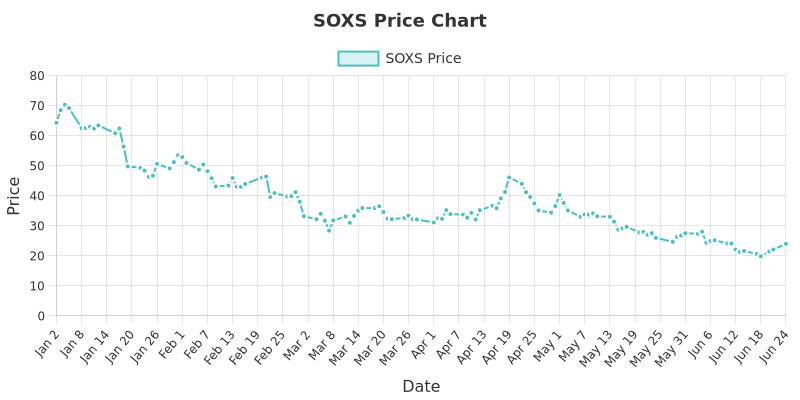
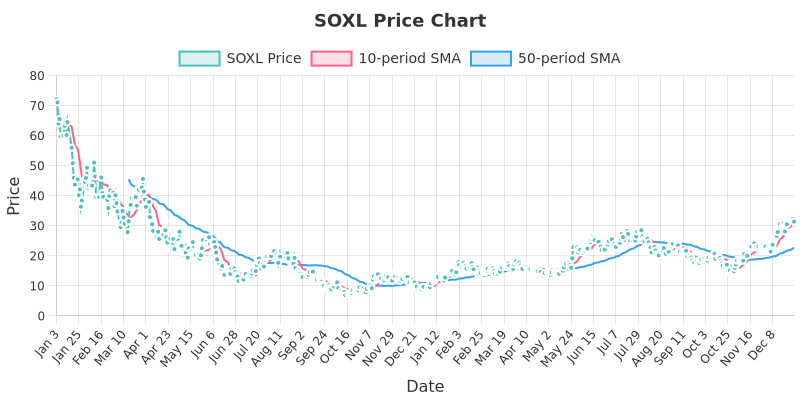
updates to tsc/frontend

diff --git a/dist/interface.js b/dist/interface.js
@@ -14,6 +14,54 @@ import "chartjs-adapter-date-fns";
 import { JSONDataAccess } from "./adapters/JSONDataAccess.js";
 import { JSONDataAdapter } from "./adapters/JSONDataAdapter.js";
 import { pubSub } from "./pubsub/PubSub.js";
+// Function to calculate Simple Moving Average (SMA)
+export function calculateSMA(data, windowSize) {
+    if (!data || data.length < windowSize)
+        return [];
+    let sum = 0;
+    const sma = new Array(windowSize - 1).fill(null); // Fill the initial array with nulls
+    // Calculate the sum for the first window
+    for (let i = 0; i < windowSize; i++) {
+        if (data[i] && data[i].close !== undefined) {
+            sum += parseFloat(data[i].close);
+        }
+        else {
+            return [];
+        }
+    }
+    sma.push(sum / windowSize);
+    // Calculate the rest using a rolling sum
+    for (let i = windowSize; i < data.length; i++) {
+        if (data[i] &&
+            data[i].close !== undefined &&
+            data[i - windowSize] &&
+            data[i - windowSize].close !== undefined) {
+            sum -= parseFloat(data[i - windowSize].close);
+            sum += parseFloat(data[i].close);
+            sma.push(sum / windowSize);
+        }
+        else {
+            return [];
+        }
+    }
+    return sma;
+}
+// Function to calculate Flexible Moving Average (FMA)
+export function calculateFMA(data, windowSize) {
+    if (!data || data.length === 0)
+        return [];
+    const alpha = 2 / (windowSize + 1);
+    let fma = [parseFloat(data[0].close)]; // Initialize with the first close value
+    for (let i = 1; i < data.length; i++) {
+        if (data[i] && data[i].close !== undefined) {
+            fma.push(alpha * parseFloat(data[i].close) + (1 - alpha) * fma[i - 1]);
+        }
+        else {
+            return [];
+        }
+    }
+    return fma;
+}
 const jsonDataAccess = new JSONDataAccess();
 const dataAccess = new JSONDataAdapter(jsonDataAccess);
 // Main function to run the program
@@ -75,6 +123,8 @@ function generateChart(symbol, startDate, endDate) {
             new Date(entry.date) <= new Date(endDate));
         const dates = marketData.map((entry) => entry.date);
         const prices = marketData.map((entry) => parseFloat(entry.close)); // Ensure prices are numbers
+        const sma10 = calculateSMA(marketData, 10);
+        const sma50 = calculateSMA(marketData, 50);
         const canvas = createCanvas(800, 400);
         const ctx = canvas.getContext("2d");
         new Chart(canvas, {
@@ -91,6 +141,24 @@ function generateChart(symbol, startDate, endDate) {
                         pointRadius: 3,
                         pointBackgroundColor: "rgba(75, 192, 192, 1)",
                         pointBorderColor: "#fff",
+                    },
+                    {
+                        label: "10-period SMA",
+                        data: sma10,
+                        borderColor: "rgba(255, 99, 132, 1)",
+                        backgroundColor: "rgba(255, 99, 132, 0.2)",
+                        borderWidth: 2,
+                        pointRadius: 0,
+                        fill: false,
+                    },
+                    {
+                        label: "50-period SMA",
+                        data: sma50,
+                        borderColor: "rgba(54, 162, 235, 1)",
+                        backgroundColor: "rgba(54, 162, 235, 0.2)",
+                        borderWidth: 2,
+                        pointRadius: 0,
+                        fill: false,
                     },
                 ],
             },

diff --git a/interface.ts b/interface.ts
@@ -7,6 +7,60 @@ import { JSONDataAdapter } from "./adapters/JSONDataAdapter.js";
 import { IDataAccess, MarketDataEntry } from "./adapters/IDataAccess.js";
 import { pubSub } from "./pubsub/PubSub.js";
 
+// Function to calculate Simple Moving Average (SMA)
+export function calculateSMA(data: MarketDataEntry[], windowSize: number): (number | null)[] {
+  if (!data || data.length < windowSize) return [];
+
+  let sum = 0;
+  const sma = new Array(windowSize - 1).fill(null); // Fill the initial array with nulls
+
+  // Calculate the sum for the first window
+  for (let i = 0; i < windowSize; i++) {
+    if (data[i] && data[i].close !== undefined) {
+      sum += parseFloat(data[i].close);
+    } else {
+      return [];
+    }
+  }
+  sma.push(sum / windowSize);
+
+  // Calculate the rest using a rolling sum
+  for (let i = windowSize; i < data.length; i++) {
+    if (
+      data[i] &&
+      data[i].close !== undefined &&
+      data[i - windowSize] &&
+      data[i - windowSize].close !== undefined
+    ) {
+      sum -= parseFloat(data[i - windowSize].close);
+      sum += parseFloat(data[i].close);
+      sma.push(sum / windowSize);
+    } else {
+      return [];
+    }
+  }
+
+  return sma;
+}
+
+// Function to calculate Flexible Moving Average (FMA)
+export function calculateFMA(data: MarketDataEntry[], windowSize: number): number[] {
+  if (!data || data.length === 0) return [];
+
+  const alpha = 2 / (windowSize + 1);
+  let fma = [parseFloat(data[0].close)]; // Initialize with the first close value
+
+  for (let i = 1; i < data.length; i++) {
+    if (data[i] && data[i].close !== undefined) {
+      fma.push(alpha * parseFloat(data[i].close) + (1 - alpha) * fma[i - 1]);
+    } else {
+      return [];
+    }
+  }
+
+  return fma;
+}
+
 const jsonDataAccess = new JSONDataAccess();
 const dataAccess: IDataAccess<MarketDataEntry> = new JSONDataAdapter(jsonDataAccess);
 
@@ -91,6 +145,8 @@ async function generateChart(symbol: string, startDate: string, endDate: string)
   );
   const dates = marketData.map((entry: MarketData) => entry.date);
   const prices = marketData.map((entry: MarketData) => parseFloat(entry.close)); // Ensure prices are numbers
+  const sma10 = calculateSMA(marketData, 10);
+  const sma50 = calculateSMA(marketData, 50);
 
   const canvas = createCanvas(800, 400);
   const ctx = canvas.getContext("2d");
@@ -109,6 +165,24 @@ async function generateChart(symbol: string, startDate: string, endDate: string)
           pointRadius: 3,
           pointBackgroundColor: "rgba(75, 192, 192, 1)",
           pointBorderColor: "#fff",
+        },
+        {
+          label: "10-period SMA",
+          data: sma10,
+          borderColor: "rgba(255, 99, 132, 1)",
+          backgroundColor: "rgba(255, 99, 132, 0.2)",
+          borderWidth: 2,
+          pointRadius: 0,
+          fill: false,
+        },
+        {
+          label: "50-period SMA",
+          data: sma50,
+          borderColor: "rgba(54, 162, 235, 1)",
+          backgroundColor: "rgba(54, 162, 235, 0.2)",
+          borderWidth: 2,
+          pointRadius: 0,
+          fill: false,
         },
       ],
     },

diff --git a/etf-frontend/src/components/ChartComponent.js b/etf-frontend/src/components/ChartComponent.js
@@ -11,7 +11,7 @@ import {
   Legend,
 } from "chart.js";
 import { pubSub } from "../pubsub/PubSub.js";
-import { calculateSMA, calculateFMA } from "./chartUtils.js"; // Adjust the import path as necessary
+import { calculateSMA, calculateFMA } from "./chartUtils.js";
 
 // Register the necessary components with Chart.js
 ChartJS.register(
@@ -66,7 +66,7 @@ const ChartComponent = () => {
             tension: 0.4, // Smooths the line
           },
           {
-            label: "SMA",
+            label: "SMA10",
             data: sma10,
             borderColor: "rgba(255, 99, 132, 1)",
             backgroundColor: "rgba(255, 99, 132, 0.2)",
@@ -79,7 +79,7 @@ const ChartComponent = () => {
             spanGaps: true, // Ensure the line spans null values
           },
           {
-            label: "FMA",
+            label: "SMA50",
             data: fma50,
             borderColor: "rgba(54, 162, 235, 1)",
             backgroundColor: "rgba(54, 162, 235, 0.2)",
